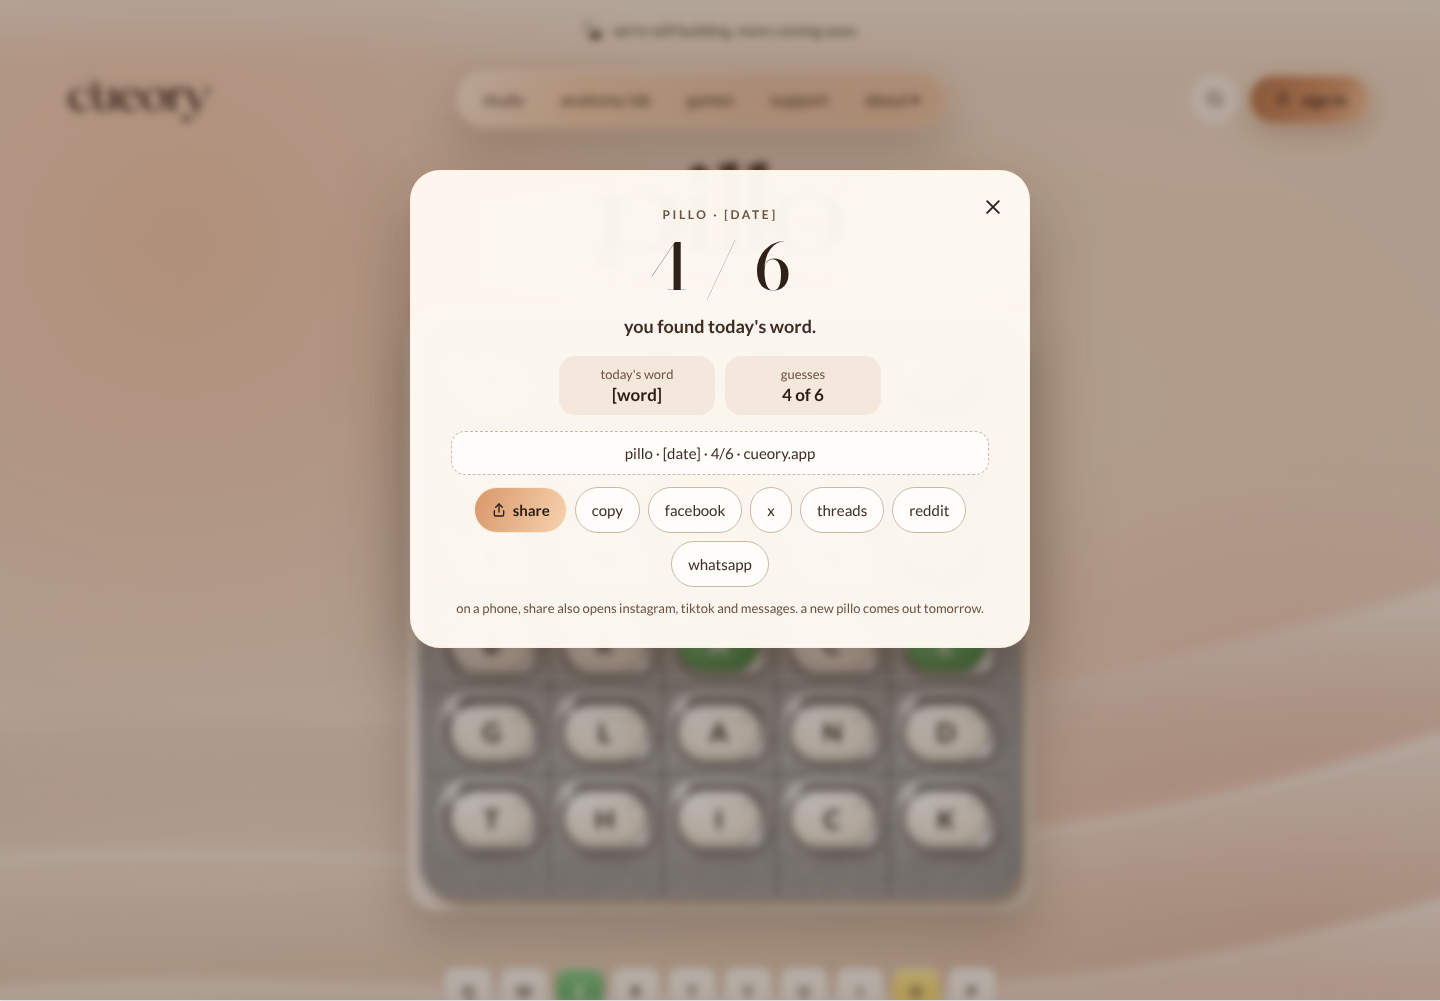
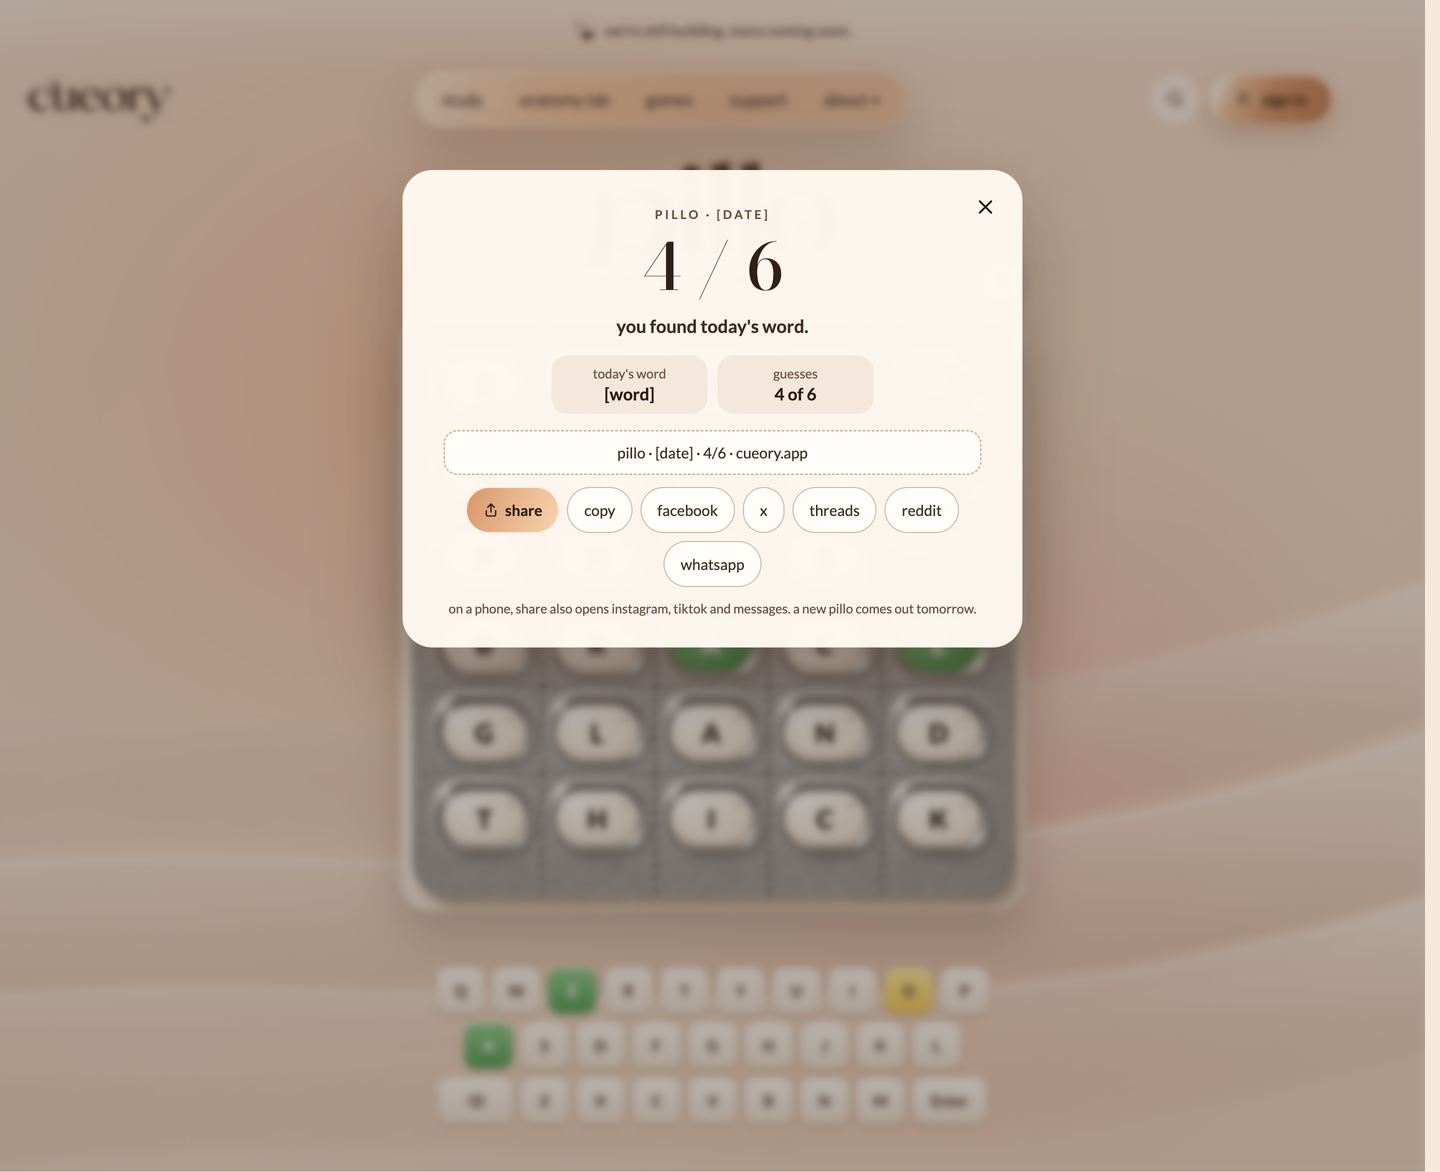
Replace renderings with Christian's official PNG exports
Home v2, pillo (full height), sudoku, word path, the three results popups, About and Message now come from his 18 Nov exports (scaled 2 to 1, split under 1.5 MB). Games hub and the 390 phone renders stay ours: his set has none.

Claude-Session: https://claude.ai/code/session_01V8pHm5xDFd3PCqqXThexqv

diff --git a/docs/design/renderings/README.md b/docs/design/renderings/README.md
@@ -1,8 +1,11 @@
 # Design renderings (reference images)
 
-Christian's approved redesign boards, rendered from his exported design page (the claude.ai "Design" canvas) in
-Chromium at 1440 px wide, with the brand fonts (Lato, Bodoni Moda), the cueory logo artwork, the pillo blister-pack art
-and the draped-silk background all showing. Build to match these, subject to the rules below.
+These are Christian's official PNG exports of the approved redesign boards (sent 18 Nov 2026), the source of truth
+for how the pages look. Each is shown at 1440 px wide: his exports are 2880 px (2x), scaled down exactly 2 to 1 with no
+other change, and cut into parts only where one file would pass 1.5 MB (parts join top to bottom). His full-size
+originals are not in the repo. The two phone renders at 390 px (`*-390.png`) are our own Chromium renders from his
+design page, because his set has no phone versions; they are less complete (for example the Home vial carousel is
+empty in `HomeV2-390.png`). Build to match these, subject to the rules below.
 
 **The rules win over the pictures.** Christian's settled defaults in
 [redesign-plan.md, "Settled defaults"](../redesign-plan.md#settled-defaults-1-11-christian-18-nov-2026-0829-the-rules-win-over-the-renderings)
@@ -19,17 +22,20 @@ content." Words like "[date]", "[word]", the pillo answer grid and the sudoku nu
 
 | Image | Board | Route | Notes |
 | --- | --- | --- | --- |
-| `HomeV2-top.png`, `HomeV2-bottom.png` | HomeV2 (1440 x 1900 canvas; page is about 2880 tall) | `/` | One page, split in two so each file stays lossless and under 1.5 MB. The vial carousel pedestal shows empty in the export. |
-| `HomeV2-390.png` | HomeV2 at phone width | `/` | Header nav pill runs past the right edge in the board itself. |
-| `Games.png`, `Games-390.png` | Games | `/play` | At 390 the pillo pack is wider than the card in the board itself. |
-| `Pillo.png` | Pillo (1440 x 1000) | `/play/pillo` | The page is a little taller than 1000, so the keyboard is cut at the bottom edge, as in the board. |
-| `PilloDone.png` | PilloDone | `/play/pillo` | Results and share popup over the blurred game. |
-| `Sudoku.png` | Sort board (this is the sudoku game) | `/play/sudoku` | |
-| `SudokuDone.png` | SudokuDone | `/play/sudoku` | Results and share popup. |
-| `WordPath.png` | WordPath | `/play/word-path` | |
-| `WordPathDone.png` | WordPathDone | `/play/word-path` | Results and share popup. |
-| `About.png`, `About-390.png` | About | `/about` | |
-| `Message.png`, `Message-390.png` | Message | `/support` | Contact form; a restyle-only recommendation. |
+| `HomeV2-1.png`, `HomeV2-2.png`, `HomeV2-3.png` | Home v2 (page is about 2880 tall) | `/` | One page in three parts, top to bottom. Part 2 shows the vial carousel. |
+| `HomeV2-390.png` | Home v2 at phone width | `/` | Our render. Header nav pill runs past the right edge in the board itself. |
+| `Games.png`, `Games-390.png` | Games hub (daily games) | `/play` | Our renders from his design page: his export set has no hub image. At 390 the pillo pack is wider than the card in the board itself. |
+| `Pillo-1.png`, `Pillo-2.png` | Game pillo (1172 tall, full height with keyboard) | `/play/pillo` | One page in two parts, top to bottom. |
+| `PilloDone.png` | pillo results + share | `/play/pillo` | Results and share popup over the blurred game. |
+| `Sudoku.png` | Game sudoku (the Sort board) | `/play/sudoku` | |
+| `SudokuDone.png` | sudoku results + share | `/play/sudoku` | Results and share popup. |
+| `WordPath.png` | Game word path | `/play/word-path` | |
+| `WordPathDone.png` | word path results + share | `/play/word-path` | Results and share popup. |
+| `About.png`, `About-390.png` | About us | `/about` | |
+| `Message.png`, `Message-390.png` | Message us / tell us what to fix | `/support` | Contact form; a restyle-only recommendation. |
 
-Only the three game boards and their results popups were designed for desktop; they were not rendered at 390.
-Light palette only: the boards have no Evening variant.
+His exports show a thin lighter strip along the right edge of the Pillo and the three results images and have the
+header a little left of where our renders put it; that is the export, not a layout to copy.
+
+The game boards were designed for desktop only and are not rendered at 390. Light palette only: the boards have no
+Evening variant.
